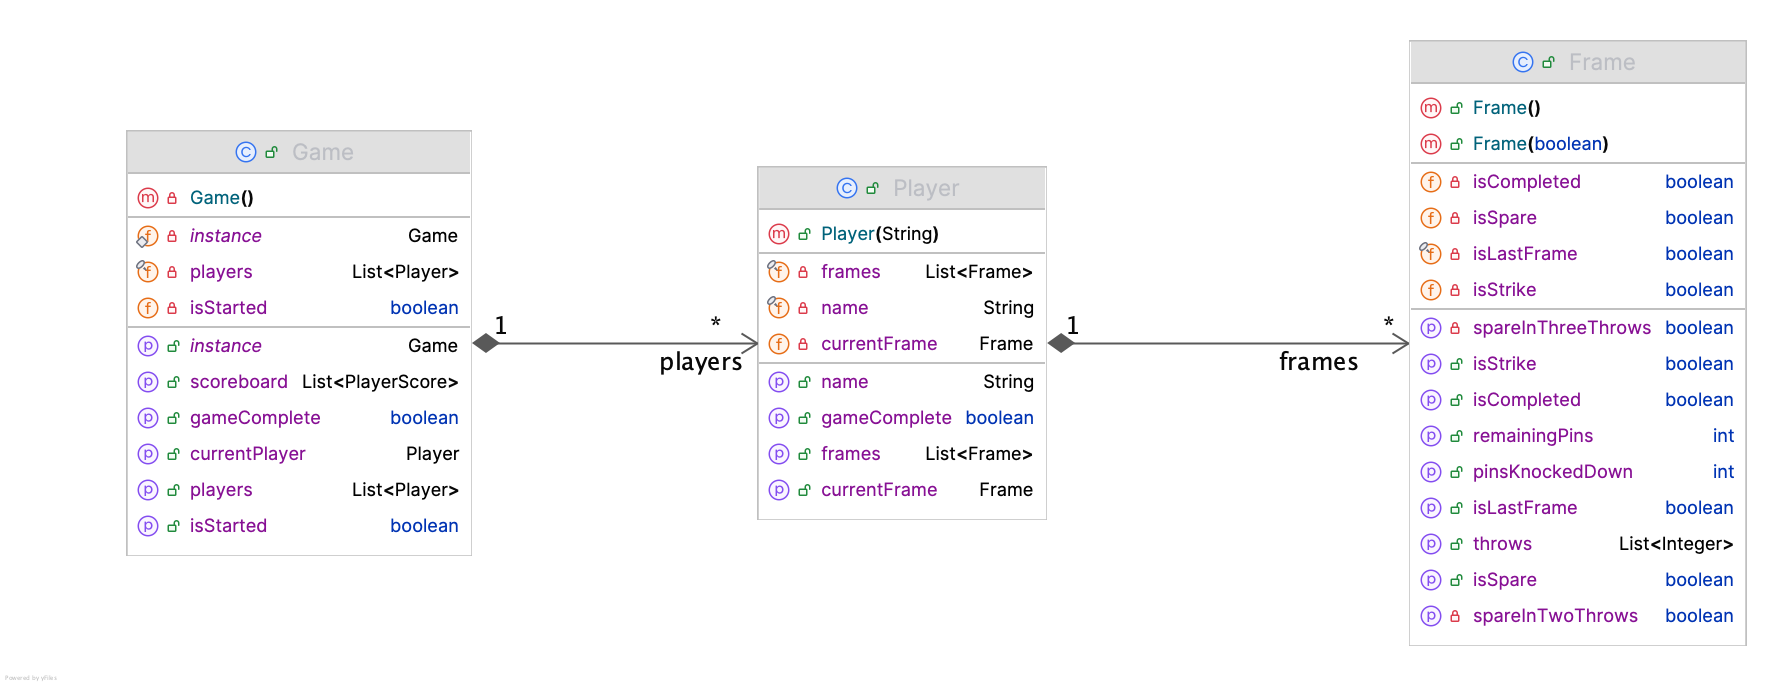
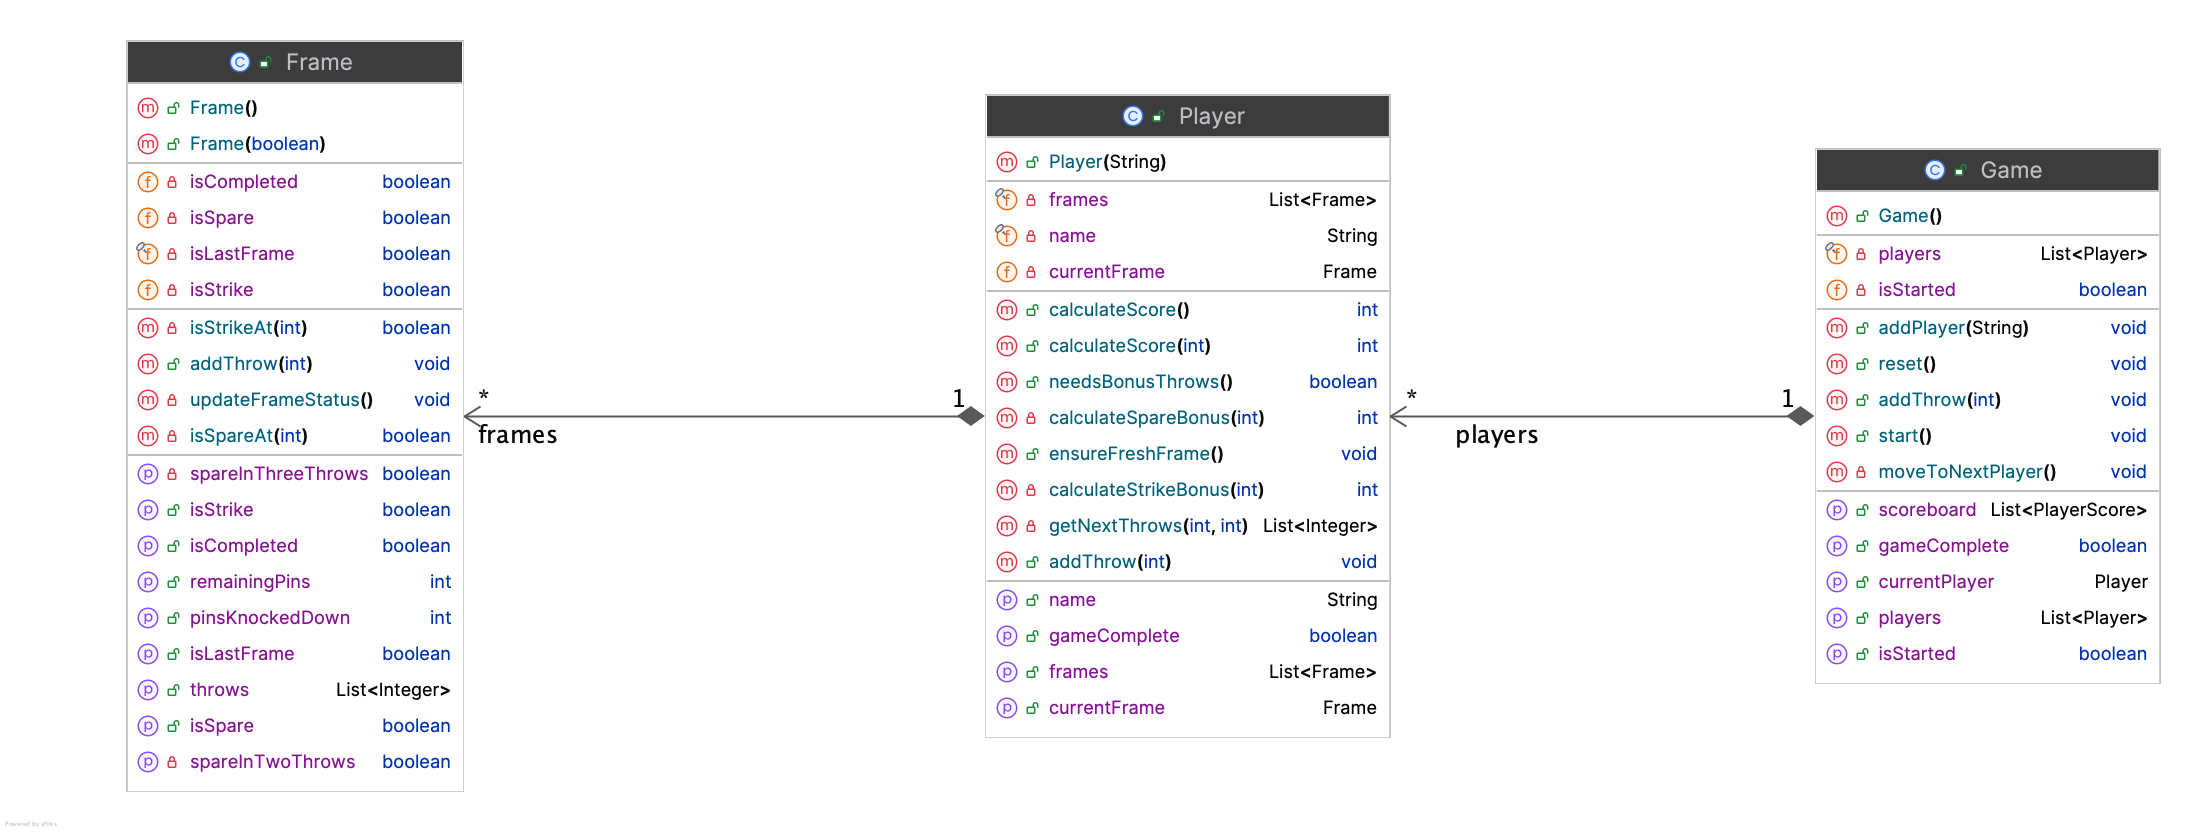
Last commit | Adding end game alert + UML Diagram

diff --git a/Ancient-Bowling-Project/backend/src/main/resources/static/js/game.js b/Ancient-Bowling-Project/backend/src/main/resources/static/js/game.js
@@ -146,6 +146,11 @@ async function refreshScoreboard() {
         currentPlayer = game.currentPlayer?.name;
         renderScoreboard(scoreboard);
         updatePlayerList();
+
+        if (game.gameComplete && scoreboard.length > 0) {
+            const winner = scoreboard[0]; 
+            alert(`Game Over! ${winner.name} wins with a score of ${winner.score}!`);
+        }
     } catch (error) {
         console.error('Error refreshing scoreboard:', error);
     }

diff --git a/Ancient-Bowling-Project/backend/src/main/resources/static/index.html b/Ancient-Bowling-Project/backend/src/main/resources/static/index.html
@@ -9,7 +9,7 @@
     <script src="/js/game.js"></script>
 </head>
 <body>
-    <div class="container">
+<div class="container  px-5 mx-auto">
         <h1 class="text-center mb-4">🎳 Telemis Ancient Bowling</h1>
         
         <div class="game-section">

diff --git a/Ancient-Bowling-Project/backend/src/main/resources/static/css/game.css b/Ancient-Bowling-Project/backend/src/main/resources/static/css/game.css
@@ -1,6 +1,6 @@
 body {
     background-color: #f8f9fa;
-    padding: 60px;
+    padding: 130px;
 }
 
 .game-section {

diff --git a/Ancient-Bowling-Project/README.MD b/Ancient-Bowling-Project/README.MD
@@ -46,10 +46,6 @@ L'application a été étendue avec une API REST complète :
 #### Architecture MVC
 - **Controllers** : `GameController` gère les endpoints REST
 - **Services** : `GameService` adapte le moteur de jeu pour le web
-- **DTOs** : 
-  - `CreateGameRequest`
-  - `ThrowRequest`
-  - `GameResponse`
 - **Exception Handling** : `GlobalExceptionHandler` pour la gestion des erreurs
 
 ## Technologies Utilisées
